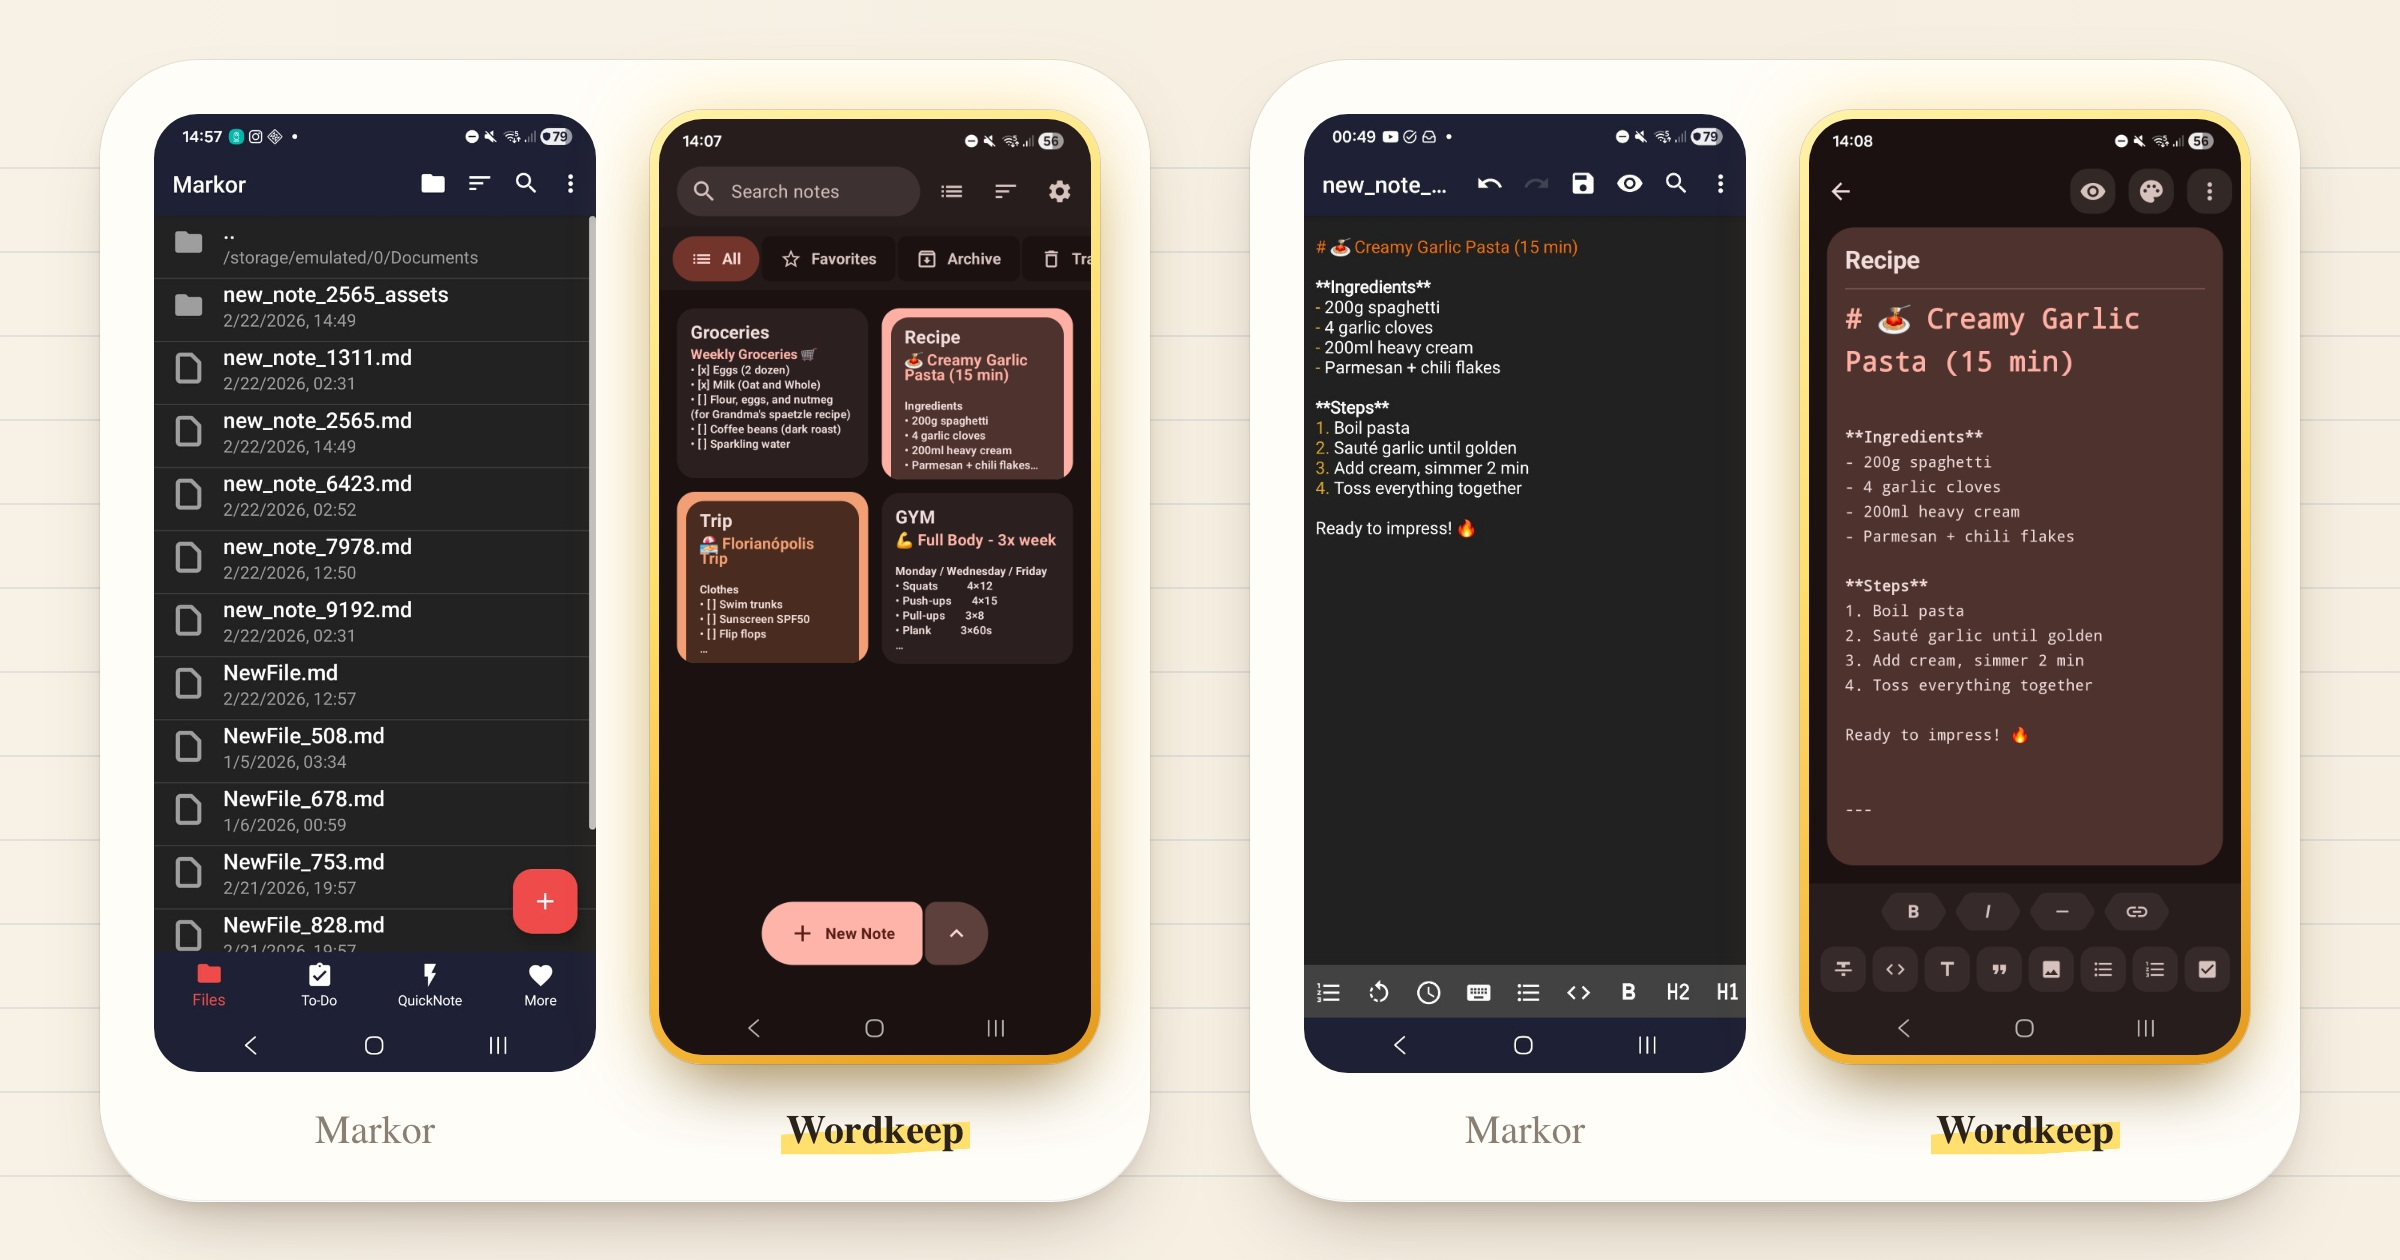
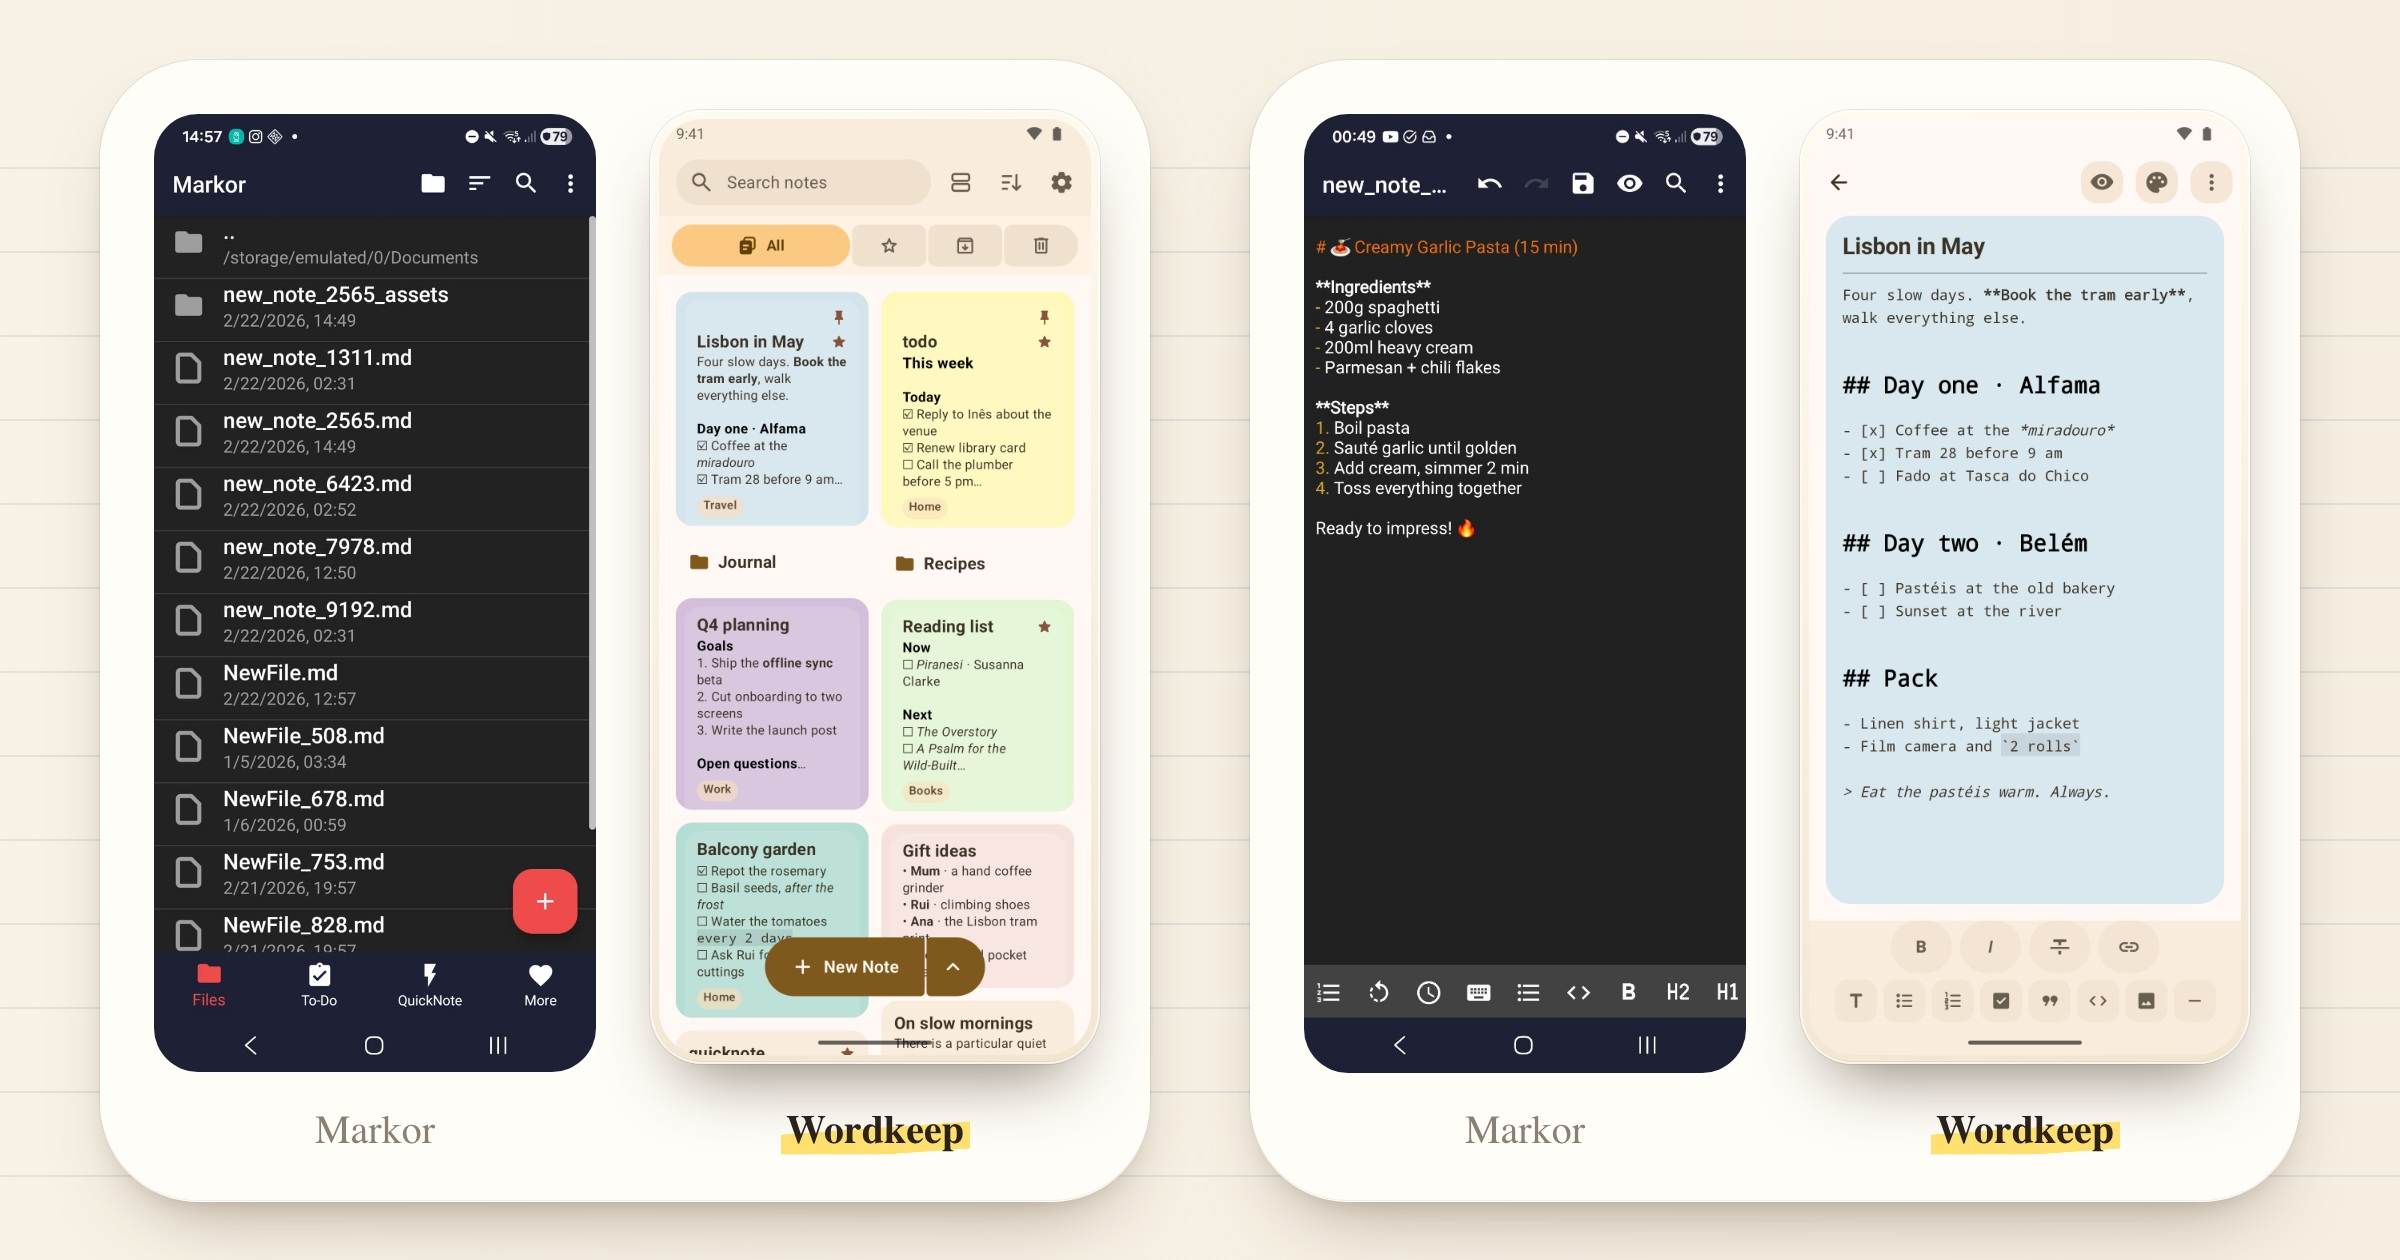
Replace the second README strip with an organized spread and refresh the Markor comparison

diff --git a/store-listing/theme.css b/store-listing/theme.css
@@ -67,12 +67,12 @@ header p{margin:28px 0 0;font-size:42px;line-height:1.28;font-weight:400;opacity
 .readme .hero .right{left:1610px;top:330px;width:540px}
 
 /* Before and after: the same notes on one sheet of paper per pair. Markor keeps a thin pencil ring;
-   Wordkeep steps forward in a highlighter-yellow frame with its name in the store headlines' highlighter. */
+   Wordkeep stands in the same pale cream body as the store cards with its name in the store headlines' highlighter. */
 .readme .compare .device{width:450px;top:110px}
 .readme .compare .device .screen{border-radius:44px;overflow:hidden}
 .readme .compare .device.before{--bezel:4px;--radius:48px;background:#2B221940;box-shadow:0 26px 50px -30px #4a3420aa}
-.readme .compare .device.after{--bezel:9px;--radius:53px;background:linear-gradient(155deg,#fff2a8,#ffdf6e 40%,#f6b93b 78%,#e59a1c);
-  box-shadow:0 0 0 1px #2B221926,0 0 80px -12px #ffcf4a99,0 36px 70px -30px #4a3420cc}
+.readme .compare .device.after{--bezel:9px;--radius:53px;background:linear-gradient(170deg,#fffaf1,#f2e6d1);
+  box-shadow:inset 0 0 0 2px #ffffffb0,inset 0 -3px 0 #c9b38f44,0 0 0 1px #2B22191a,0 36px 70px -30px #4a3420aa}
 .readme .compare .pair1.before{left:150px}
 .readme .compare .pair1.after{left:650px}
 .readme .compare .pair2.before{left:1300px}
@@ -101,3 +101,8 @@ html[data-strip="first"] .glyph.seam-left,html[data-strip="last"] .glyph.seam-ri
 .readme .spread .tablet{--bezel:18px;--radius:48px;left:1020px;top:150px;width:1600px}
 .readme .spread .phone{--bezel:12px;--radius:60px;left:900px;top:520px;width:420px;z-index:4}
 .tablet7 .brand{left:120px}
+/* README "organized" spread: the same left page, three phones at staggered heights on the right. */
+.readme .spread.organize header{width:700px}
+.readme .organize .one{left:880px;top:300px;width:470px;--bezel:9px;--radius:44px}
+.readme .organize .two{left:1380px;top:150px;width:470px;--bezel:9px;--radius:44px}
+.readme .organize .three{left:1880px;top:380px;width:470px;--bezel:9px;--radius:44px}

diff --git a/README.md b/README.md
@@ -21,7 +21,7 @@
 ## Everything a notebook needs
 
 <p align="center">
-  <img src="store-listing/en-US/readme/notebook-2.jpg" width="100%" alt="A color for every note; folders are real folders; light, dark, your color; plain files, no lock-in">
+  <img src="store-listing/en-US/readme/organize.jpg" width="100%" alt="Wordkeep's note color picker, a journal folder, and the notebook as a list of plain .md and .txt files">
 </p>
 
 - **Markdown, kept readable.** Headings, bold, quotes and `- [ ]` tasks are highlighted as you type. One tap shows the finished page.
@@ -31,10 +31,10 @@
 
 ## From Markor to Wordkeep
 
-The same notes on the same phone, in Markor and in Wordkeep. Notes became cards you can pin, color and label; the editor keeps Markdown readable as you type.
+Markor beside Wordkeep: the file list became a notebook of notes you can pin, color and label, and the editor keeps Markdown readable as you type.
 
 <p align="center">
-  <img src="store-listing/en-US/readme/before-after.jpg" width="100%" alt="Markor's file list and editor beside Wordkeep's notes grid and editor, showing the same recipe note">
+  <img src="store-listing/en-US/readme/before-after.jpg" width="100%" alt="Markor's file list and editor beside Wordkeep's notes grid and Markdown editor">
 </p>
 
 Wordkeep is a modern port of [Markor](https://github.com/gsantner/markor), Gregor Santner's open-source Markdown editor. It keeps Markor's idea, plain text first and offline always, in a new implementation built with Kotlin Multiplatform and Compose.
